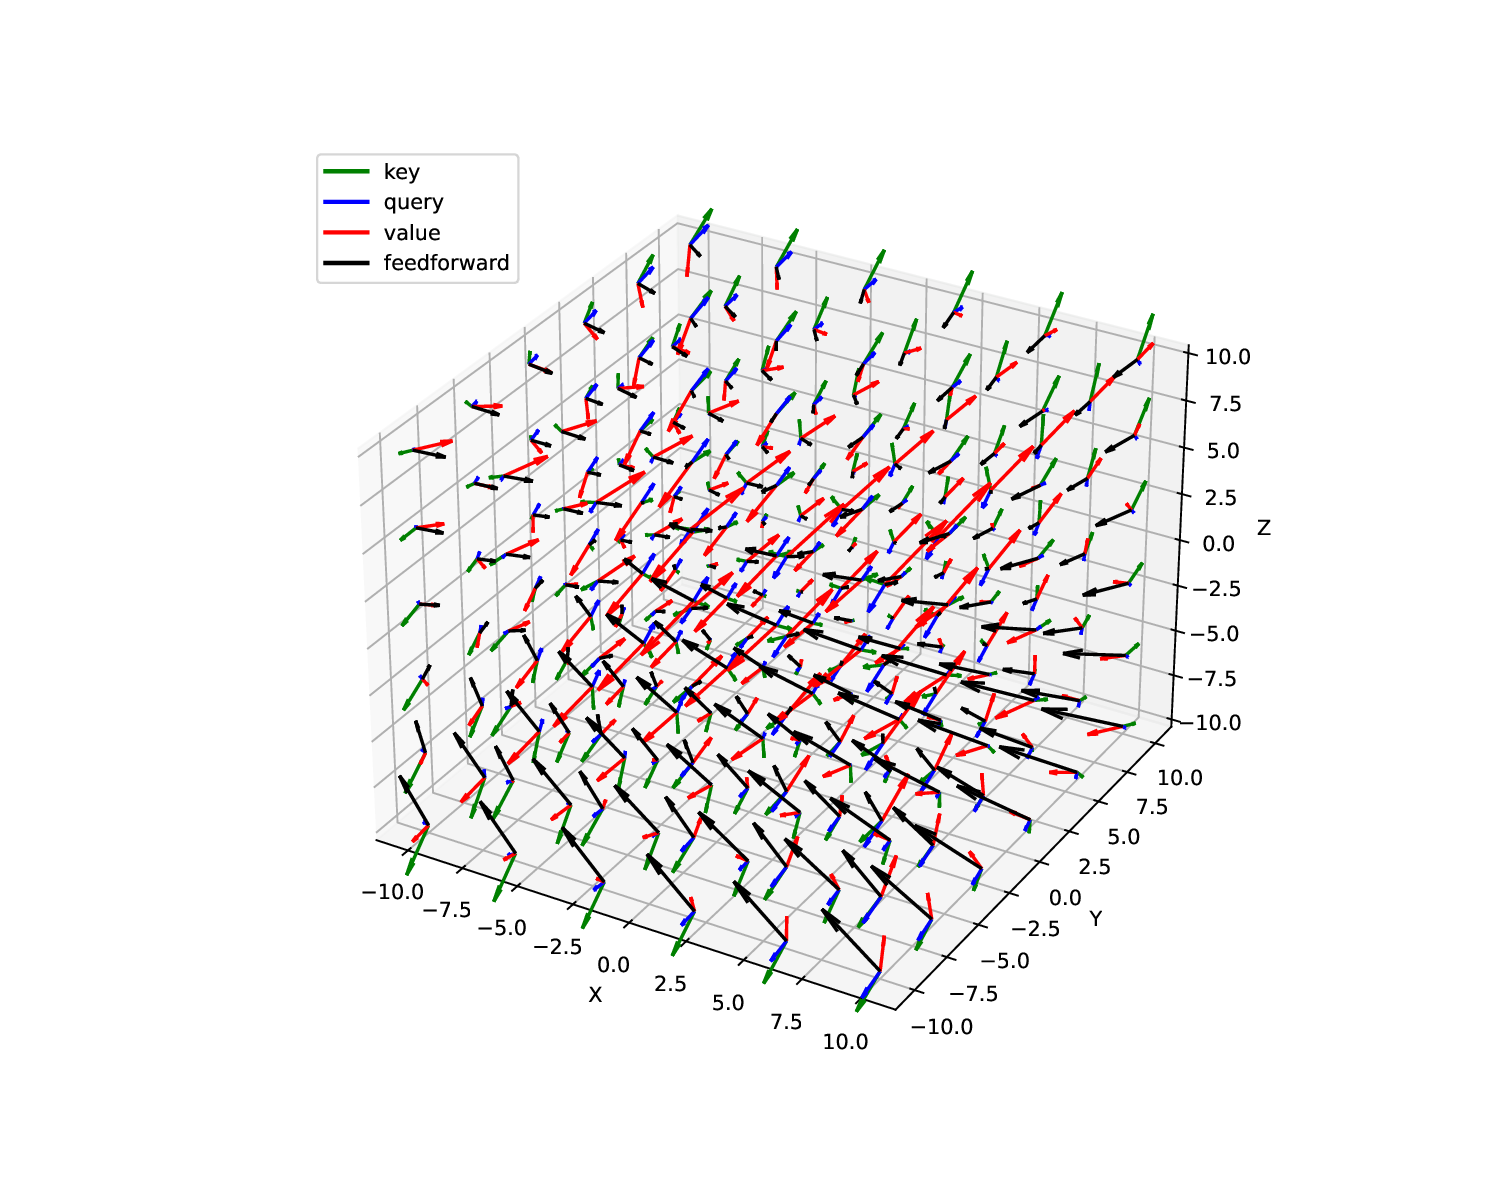
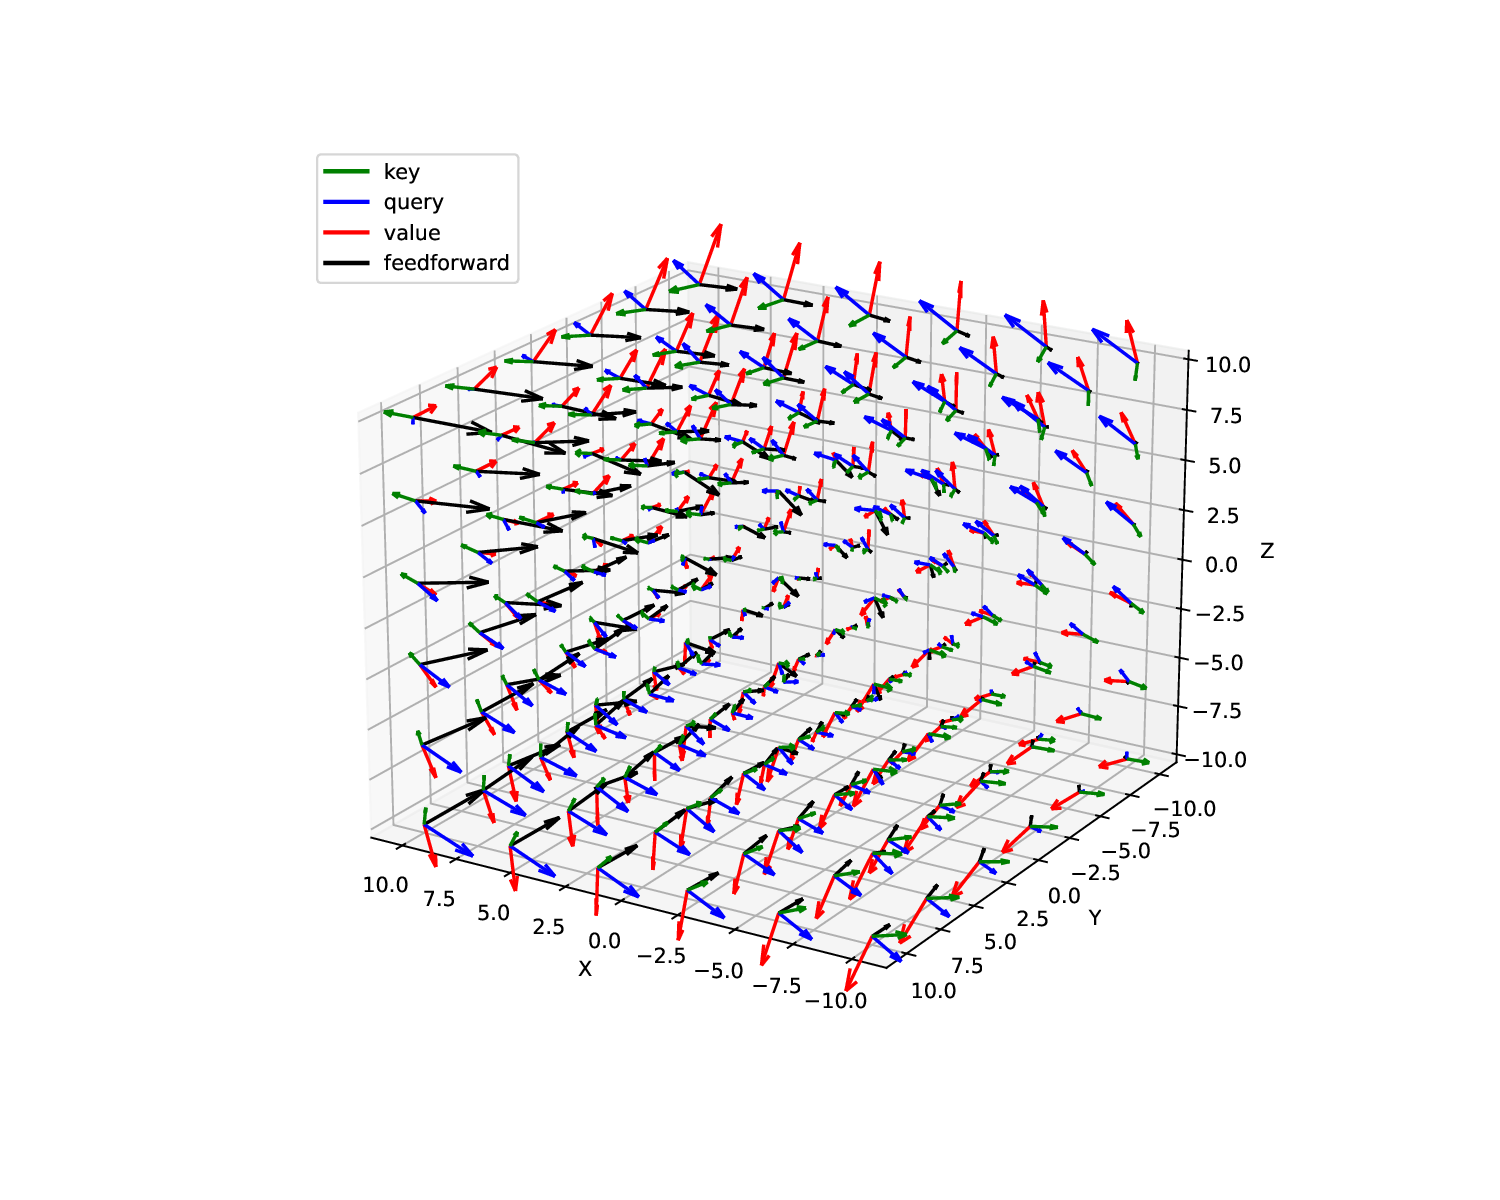
docs, new quiver

Changed region(s): [[0.2453, 0.185, 0.8587, 0.8942]]

diff --git a/vis_quiver.py b/vis_quiver.py
@@ -10,6 +10,7 @@ torch_device = "cuda" if torch.cuda.is_available() else "cpu"
 
 # model_filename = "model.all8_d3_b10_ffwd512_recurrent.pth"
 model_filename = "model.56_d3_b10_ffwd16_recurrent.pth"
+model_filename = "model.56_d3_b10_recurrent.pth"
 model = torch.load(model_filename, map_location=torch.device('cpu')).to(torch_device)
 
 
@@ -72,6 +73,7 @@ def show_quiver(vectors, color):
 
 fig = plt.figure(figsize=(10, 8))
 ax = fig.add_subplot(111, projection='3d')
+ax.view_init(elev=60, azim=-45)
 
 # Set labels and show plot
 ax.set_xlabel('X')
@@ -85,10 +87,10 @@ for kind, color in color_mapping:
     with torch.no_grad():
         if kind == 'feedforward':
             vectors = ffwd(grid_tensor)
-            vectors /= 30
+            vectors /= 100
         else:
             vectors = attention(grid_tensor, kind=kind).cpu().numpy()
-            vectors /= 15
+            vectors /= 8
     show_quiver(vectors, color)
     print(kind, color)
 

diff --git a/README.md b/README.md
@@ -14,7 +14,7 @@ The interaction between the boids is determined by an attention block with 36 pa
 feed-forward block with 3600 parameters.
 
 
-# Transformer-Boid Swarm Analogy
+## Transformer - boid swarm analogy
 
 The motivation behind the toy model above was an educational analogy between transformers and swarm simulations. We now present this analogy. The concepts align like this:
 
@@ -28,7 +28,7 @@ The motivation behind the toy model above was an educational analogy between tra
 - Residual connections guarantee that boid movement is incremental.
 
 
-## Actions of the boids (tokens)
+### Boid behavior
 
 At every timestep, each boid performs two actions one after another:
 
@@ -57,16 +57,21 @@ A more fundamental issue with the analogy is that in traditional swarm simulatio
 This motivated us to consider the **recurrent** transformers above, as the missing link between transformers and swarm simulations.
 
 
-# Back to the toy model
+## Back to the toy model
 
 We now circle back to presenting our toy model. It is defined by a single-head transformer block that is recurrently applied 10 times.
-It does not employ positional encoding, layer normalization and dropout. To facilitate smooth incremental movement, output is scaled by
+(As an alternative interpretation, as a 10-block transformer with full weight-sharing between blocks.)
+It does not employ positional encoding, layer normalization or dropout. To facilitate smooth incremental movement, output is scaled by
 a factor of 0.1 before the residual is added to the token embedding. (Embedding is boid position, residual is boid speed.)
 
 The behavior is fully determined by four vector fields. For the above model solving binary classification of MNIST 5 and 6 digits,
 the vector fields look like this:
 
+![Quiver plot of vector fields](quiver.png "Quiver plot of vector fields")
 
+The 10-block recurrent (weight-shared) model achieves a binary classification accuracy of 96.43%. For comparison, a single transformer block
+achieves 89.68%, two non-recurrent blocks achieve 96.97%, two recurrent blocks achieve 95.03%.
 
-Without the assumption of recurrence (timestep independence), such a model can achieve 96% accuracy in 3D latent space, and
-99.0% accuracy in 100D latent space, without employing layer normalization and dropout.
+Needless to say, we do not promote these models as relevant in practical applications. Their performance is limited
+both by their recurrent nature and their low embedding dimension. A 100-dimensional, 10-block non-recurrent,
+but otherwise identical model achieves 99.35% classification accuracy.
